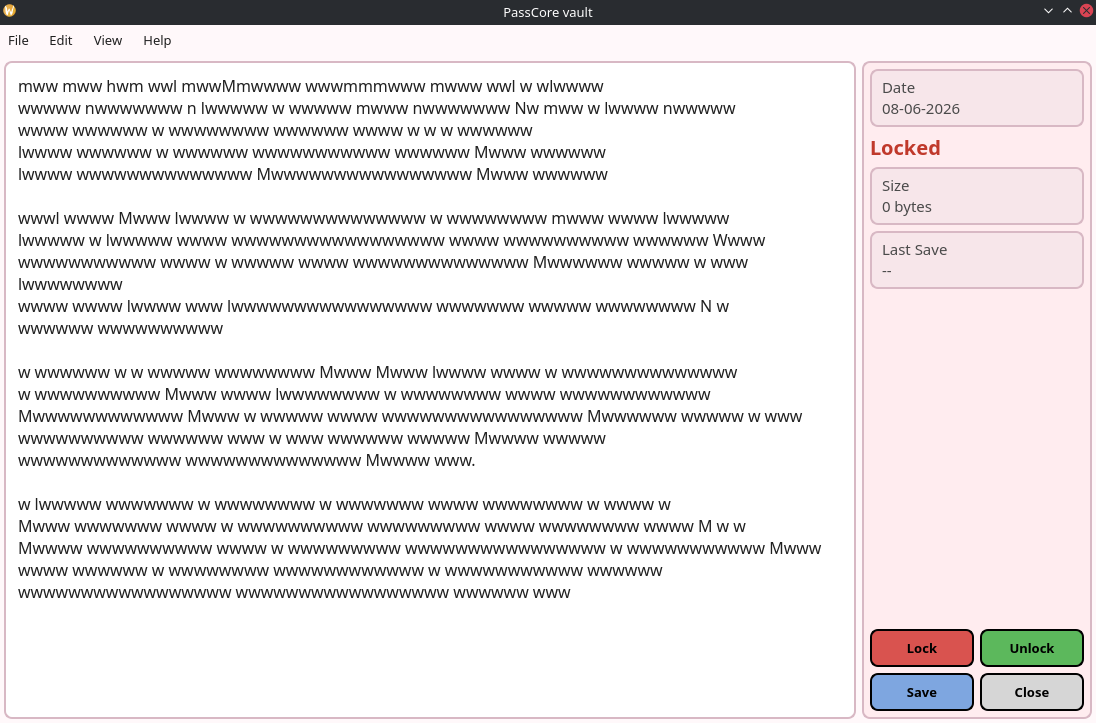
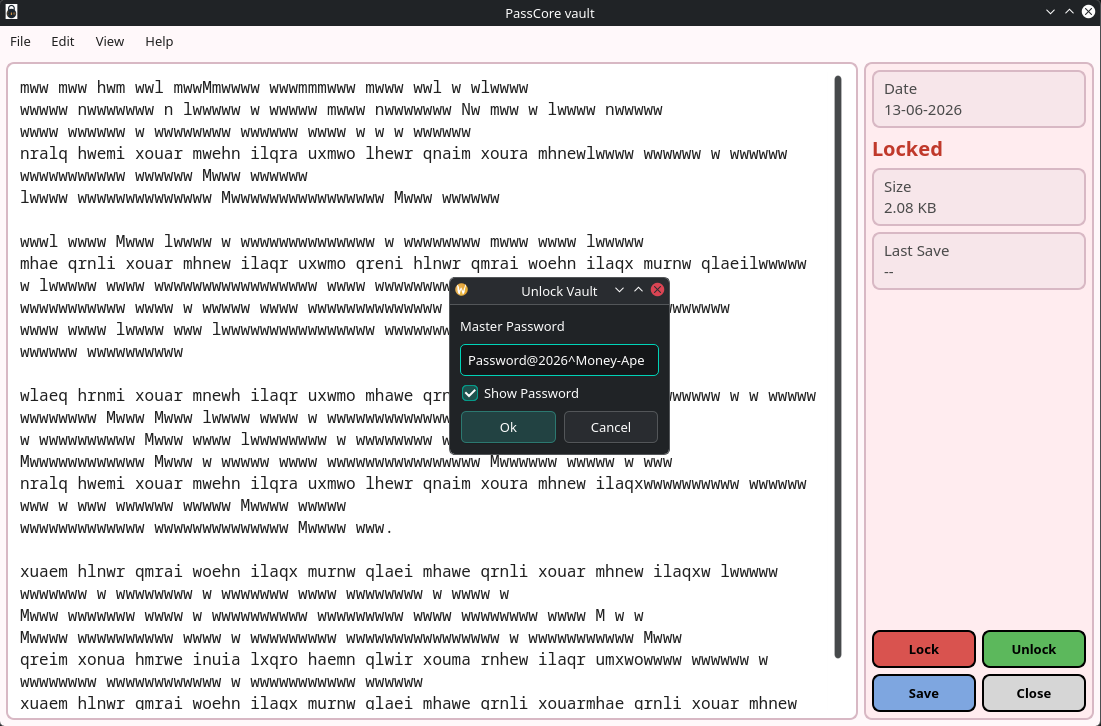
feat: implement distributed blob storage and authentication improvements - Refactored backup system for containerized storage - Added custom PasswordDialog - Added password confirmation during vault creation - Added show/hide password functionality - Added password validation workflow - Added Enter-

Changed region(s): [[0.0, 0.0, 1.0, 1.0], [0.4653, 0.0, 0.5584, 0.0304]]

diff --git a/gui.py b/gui.py
@@ -1,8 +1,8 @@
 import sys, os, subprocess, json
 from pathlib import Path
 from datetime import datetime
-from PySide6.QtWidgets import(QApplication, QMainWindow, QWidget, QTextEdit, QLabel, QHBoxLayout, QVBoxLayout, QPushButton, QFrame)
-from PySide6.QtGui import QAction, QIcon, QPixmap
+from PySide6.QtWidgets import(QApplication, QMainWindow, QWidget, QTextEdit, QLabel, QHBoxLayout, QVBoxLayout, QPushButton, QFrame, QDialog, QCheckBox, QLineEdit, QMessageBox)
+from PySide6.QtGui import QAction, QIcon
 from backup import create_backup, restore_backup, META_FILE
 
 class PassCoreUI(QMainWindow):
@@ -369,6 +369,62 @@ class PassCoreUI(QMainWindow):
 
     def vault_close(self):
         self.close()
+
+class PasswordDialog(QDialog):
+    def __init__(self, title="Unlock Vault", confirm=False):
+        super().__init__()
+        self.confirm = confirm
+        self.setWindowTitle(title)
+        self.password = QLineEdit()
+        self.password.setEchoMode(QLineEdit.EchoMode.Password)
+
+        if self.confirm:
+            self.confirm_password = QLineEdit()
+            self.confirm_password.setEchoMode(QLineEdit.EchoMode.Password)
+
+        self.show_pass = QCheckBox("Show Password")
+        self.unlock_btn = QPushButton("Ok")
+        self.cancel_btn = QPushButton("Cancel")
+
+        self.show_pass.toggled.connect(self.toggle_password)
+        self.unlock_btn.clicked.connect(self.validate_passwd)
+        self.cancel_btn.clicked.connect(self.reject)
+
+        layout = QVBoxLayout()
+        layout.addWidget(QLabel("Master Password")) # Master Password Dialog
+        layout.addWidget(self.password) # Password Input
+
+        if self.confirm:
+            layout.addWidget(QLabel("Confirm Password"))
+            layout.addWidget(self.confirm_password)
+            
+        layout.addWidget(self.show_pass) # Checkbox Input
+
+        btn_layout = QHBoxLayout()
+        btn_layout.addWidget(self.unlock_btn)
+        btn_layout.addWidget(self.cancel_btn)
+        
+        layout.addLayout(btn_layout)
+        self.setLayout(layout)
+
+    def toggle_password(self, checked):
+        mode = (QLineEdit.EchoMode.Normal
+            if checked
+            else QLineEdit.EchoMode.Password
+        )
+        self.password.setEchoMode(mode)
+        
+        if self.confirm:
+            self.confirm_password.setEchoMode(mode)
+
+    def validate_passwd(self):
+        if self.confirm:
+            if (self.password.text() != self.confirm_password.text()):
+                QMessageBox.warning(
+                    self, "PassCore", "Your Password doesn't match with your vault password...\nDon't play with passwrrd passwrod password*"
+                )
+                return
+        self.accept()
 
 if __name__ == "__main__":
     app = QApplication(sys.argv)

diff --git a/backup.py b/backup.py
@@ -1,9 +1,19 @@
-import os, zipfile, platform
+import os, zipfile, platform, json, shutil
 from datetime import datetime
 from pathlib import Path
 
 GREEN = "\033[32m" # SUCCESS & NEW RECORDS
 RESET = "\033[0m"
+
+def get_container_dir():
+    sys = platform.system()
+    if sys == "Linux":
+        return Path.home() / ".local" / "share" / ".passcore_db"
+    
+    elif sys == "Windows":
+        return Path(os.getenv("LOCALAPPDATA")) / "PassCoreData"
+    else:
+        raise RuntimeError(f"Unsupported OS: {sys}")
 
 def get_PassCore_dir():
     sys = platform.system()
@@ -14,8 +24,11 @@ def get_PassCore_dir():
         return Path(os.getenv("APPDATA")) / "PassCore"
     else:
         raise RuntimeError(f"Unsupported OS: {sys}")
-    
+
+CONTAINER_DIR = get_container_dir()
 PASSCORE_DIR = get_PassCore_dir()
+
+CONTAINER_DIR.mkdir(parents=True, exist_ok=True)
 PASSCORE_DIR.mkdir(parents=True, exist_ok=True)
 SALT_FILE = PASSCORE_DIR / "vault.salt"
 META_FILE = PASSCORE_DIR / "meta.json"
@@ -30,9 +43,10 @@ def create_backup():
     with zipfile.ZipFile(zip_dir, "w", compression=zipfile.ZIP_DEFLATED) as backto_zip: # writes splitted blobs into zipfile for backup
         backto_zip.write(SALT_FILE, arcname=SALT_FILE.name)
         backto_zip.write(META_FILE, arcname=META_FILE.name)
-        for blob in PASSCORE_DIR.iterdir():
-            if blob.match("blob_*.bin"):
-                backto_zip.write(blob, arcname=blob.name)
+
+        for file in CONTAINER_DIR.rglob("*"):
+            if file.is_file():
+                backto_zip.write(file, arcname=file.relative_to(CONTAINER_DIR))
     
     MAX_BACKUPS = 10
     all_backups = sorted(backup_root.glob("*.zip"))
@@ -51,14 +65,17 @@ def restore_backup():
         return
     else:
         latest_backups = zip_frompath[0]
+        if CONTAINER_DIR.exists():
+            shutil.rmtree(CONTAINER_DIR)
+        CONTAINER_DIR.mkdir(parents=True, exist_ok=True) # Will create Empty Dir.
         
-        for file in PASSCORE_DIR.iterdir(): # Removes existing corrupted vault from PASSCORE_DIR
-            if (file.match("blob_*.bin")
-                or file.name == SALT_FILE
-                or file.name == META_FILE
-                ):
-                file.unlink()
+        if META_FILE.exists() or SALT_FILE.exists():
+            META_FILE.unlink()
+            SALT_FILE.unlink()
+
         with zipfile.ZipFile(latest_backups, "r") as backfrom_zip:
-            backfrom_zip.extractall(PASSCORE_DIR)
+            backfrom_zip.extractall(CONTAINER_DIR) 
+            shutil.move(CONTAINER_DIR / "meta.json", PASSCORE_DIR)
+            shutil.move(CONTAINER_DIR / "vault.salt", PASSCORE_DIR)
 
     print(f"Recovered from {latest_backups.name}")

diff --git a/enc.py b/enc.py
@@ -1,11 +1,11 @@
-from gui import PassCoreUI
+from gui import PassCoreUI, PasswordDialog
 from backup import create_backup
 import os, struct, json, platform, hashlib, uuid, shutil
 from pathlib import Path
 from datetime import datetime
 from cryptography.hazmat.primitives.ciphers.aead import AESGCM
 from cryptography.exceptions import InvalidTag
-from PySide6.QtWidgets import(QApplication, QInputDialog, QLineEdit, QMessageBox, QFileDialog)
+from PySide6.QtWidgets import(QApplication, QInputDialog, QLineEdit, QMessageBox)
 from PySide6.QtCore import QTimer
 from argon2.low_level import hash_secret_raw, Type
 
@@ -304,13 +304,13 @@ def unlock_vault(window, editor, save_btn, close_btn, unlock_btn, lock_btn):
     while True:
         if is_first_run():            
             init_vault(window)
-            masterpasswd, ok = QInputDialog.getText(
-                window, "Unlock Vault",
-                f"Set your master password: ", QLineEdit.Password
-            )
+            dialog = PasswordDialog(title="Create Vault", confirm=True)
+            ok = dialog.exec()
+
             if not ok:
                 window.close()
                 return
+            masterpasswd = dialog.password.text()
             
             # Generates key for first run.!
             key = hash_secret_raw(
@@ -361,10 +361,13 @@ def unlock_vault(window, editor, save_btn, close_btn, unlock_btn, lock_btn):
             )
             return
         
-        masterpasswd, ok = QInputDialog.getText(
-            window, "Unlock Vault",
-            f"Master Passwd: ", QLineEdit.Password
-        )
+        dialog = PasswordDialog(title="Unlock Vault", confirm=False)
+        ok = dialog.exec()
+
+        if not ok:
+            window.close()
+            return
+        masterpasswd = dialog.password.text()
         
         if not ok:
             window.close()

diff --git a/README.md b/README.md
@@ -10,69 +10,20 @@ A cryptographic password manager written in Python, focused on secure vault stor
 
 ## Features
 
-* AES-GCM authenticated encryption
-* Argon2id-based key derivation
-* Master password protected vault
-* Random salt generation and persistence
-* Binary vault storage
-* Length-prefixed encrypted record format
-* Vault lock/unlock workflow
-* Save-before-exit protection
-* Automatic vault autosave
-* First-run vault initialization
-* Vault metadata management
-* Blob-based encrypted storage architecture
-* Distributed blob container architecture
-* Metadata-driven blob reconstruction
-* SHA256 blob integrity verification
-* Vault corruption detection
-* Automatic backup creation
-* Backup recovery system
-* Backup retention management
-* GUI-integrated recovery workflow
-* Vault size tracking
-* Vault created/modified tracking
-* XDG-compliant storage layout
-* Cross-platform path abstraction
-* PySide6 graphical user interface
+* AES-GCM encryption with Argon2id key derivation
+* Master-password protected vault with custom authentication dialog
+* Password confirmation, validation, and visibility toggle support
+* Binary vault storage with distributed blob container architecture
+* Metadata-driven reconstruction and SHA256 integrity verification
+* Vault corruption detection and recovery validation
+* Automatic backups, recovery workflows, and backup retention
+* Vault locking, unlocking, autosave, and save-before-exit protection
+* Vault size tracking and created/modified timestamps
+* Cross-platform storage layouts (Linux & Windows)
+* PySide6 desktop graphical interface
 
 ---
 
-## Current Architecture
-
-```text
-  Master Password
-        ↓
-     Argon2id
-        ↓
-Vault Encryption Key
-        ↓
-     AES-GCM
-        ↓
-Temporary Working Vault
-(passwords.bin)
-        ↓
-   Blob Splitting
-        ↓
- Container Generation
-        ↓
-
-~/.local/share/passcore/
-├── vault.salt
-└── meta.json
-
-~/.local/share/.passcore_db/
-├── a76f1d9a4cd6493d/
-│   └── blob_0000.bin
-├── b371b06d00374fb6/
-│   └── blob_0001.bin
-├── e2e0f4c1dd31483c/
-│   └── blob_0002.bin
-└── ...
-
-        ↓
-Persistent Storage
-```
 ```mermaid
 flowchart LR
 
@@ -113,6 +64,49 @@ After encryption and blob generation, the temporary working vault is automatical
 
 ---
 
+## Password Authentication Workflow
+
+PassCore uses a custom password dialog for vault creation and vault unlocking.
+
+![PassCore UI](assets/PassCoreUI_test02.png)
+
+### First Run
+
+```text
+Create Vault
+      ↓
+Enter Master Password
+      ↓
+Confirm Password
+      ↓
+Password Validation
+      ↓
+Argon2id Key Derivation
+      ↓
+Vault Creation
+```
+
+### Vault Unlock
+
+```text
+Unlock Vault
+      ↓
+Enter Master Password
+      ↓
+Optional Password Visibility Toggle
+      ↓
+Argon2id Key Derivation
+      ↓
+AES-GCM Authentication
+      ↓
+Vault Editor
+```
+
+The password confirmation workflow helps prevent accidental vault creation with mistyped master passwords.
+
+The password visibility toggle allows users to verify their password input before authentication.
+
+---
 # Security Design
 
 ## Key Derivation
@@ -337,9 +331,8 @@ Backup retention automatically removes older backups after the configured limit 
 * Vault initialization metadata
 * Master password authentication
 * Vault locking and unlocking
-* Save vault contents
-* Save-before-close workflow
-* Automatic vault autosave
+* Save-before-close workflow & Automatic vault autosave
+* Password confirmation workflow & visibility toggle
 
 ### Cryptography
 
@@ -379,6 +372,9 @@ Backup retention automatically removes older backups after the configured limit 
 * Lock screen support
 * Backup management menu
 * Backend-integrated GUI
+* Custom password dialog
+* Show/Hide password support
+* Password confirmation workflow
 
 ---
 
@@ -424,6 +420,9 @@ Backup retention automatically removes older backups after the configured limit 
 * [x] Backup and recovery
 * [x] Created/modified timestamps
 * [x] PySide6 desktop interface
+* [x] Custom password dialog
+* [x] Password visibility toggle
+* [x] Password confirmation workflow
 * [ ] Password generator
 * [ ] Auto-lock timer
 * [ ] Cross-platform packaging
@@ -447,6 +446,10 @@ Backup retention automatically removes older backups after the configured limit 
 * argon2-cffi
 * PySide6
 
+---
+## Documentation
+
+- [ARCHITECTURE.md](ARCHITECTURE.md) — Storage architecture, integrity verification, backup recovery, and platform layouts.
 ---
 
 ## Installation
